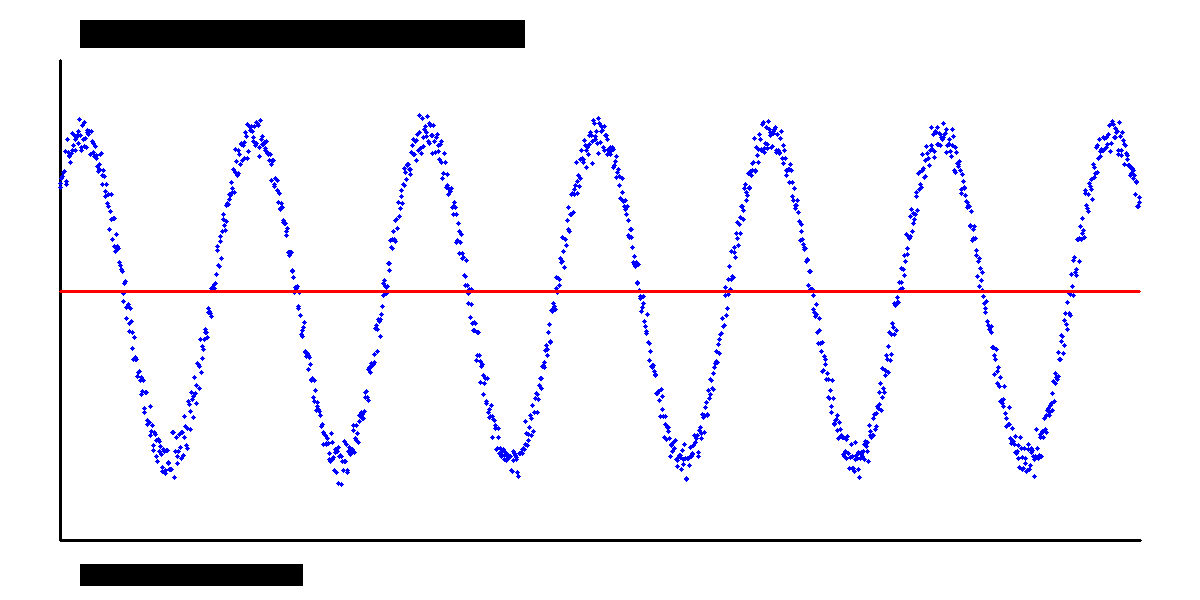
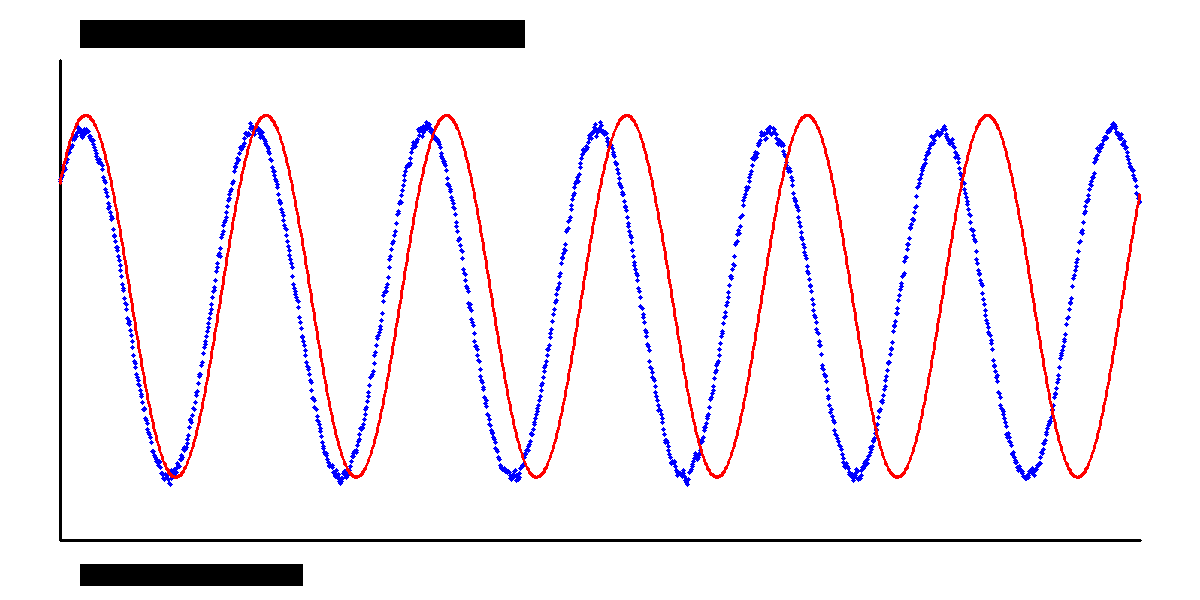
task2 version2

diff --git a/src/task2_fit/main.cpp b/src/task2_fit/main.cpp
@@ -136,41 +136,63 @@ int main(int argc, char** argv) {
 
     // 数值中心差分求角速度
     std::vector<double> omegaObs, tOmega;
-    for (size_t i = 1; i + 1 < N; i++) {
-        double dt = times[i + 1] - times[i - 1];
-        double dtheta = anglesUnwrapped[i + 1] - anglesUnwrapped[i - 1];
-        omegaObs.push_back(dtheta / dt);
-        tOmega.push_back(times[i]);
+for (size_t i = 1; i + 1 < N; i++) {
+    double dt = times[i + 1] - times[i - 1];
+    double dtheta = anglesUnwrapped[i + 1] - anglesUnwrapped[i - 1];
+    omegaObs.push_back(dtheta / dt);
+    tOmega.push_back(times[i]);
+}
+
+// 👇 新增：对观测到的角速度做 5 点移动平均，去除尖峰噪声
+std::vector<double> omegaObsFiltered = omegaObs;
+int halfWin = 2; // 窗口大小 5
+for (size_t i = 0; i < omegaObs.size(); ++i) {
+    double sum = 0;
+    int count = 0;
+    for (int j = -halfWin; j <= halfWin; ++j) {
+        int idx = static_cast<int>(i) + j;
+        if (idx >= 0 && idx < static_cast<int>(omegaObs.size())) {
+            sum += omegaObs[idx];
+            count++;
+        }
     }
+    omegaObsFiltered[i] = sum / count;
+}
+// 用滤波后的数据替换原始数据
+omegaObs = omegaObsFiltered;
+// 👆 新增结束
 
-    // ===== Ceres 拟合 =====
-    double params[4] = {0.5, 1.0, 1.0, 0.0};  // A, b, Omega, phi
+ // ===== Ceres 拟合 =====
 
-    ceres::Problem problem;
-    for (size_t i = 0; i < omegaObs.size(); i++) {
-        ceres::CostFunction* cost =
-            new ceres::AutoDiffCostFunction<AngularVelocityResidual, 1, 4>(
-                new AngularVelocityResidual(tOmega[i], omegaObs[i]));
-        problem.AddResidualBlock(cost, nullptr, params);
-    }
+// 动态计算完美初值
+double omegaMax = *std::max_element(omegaObs.begin(), omegaObs.end());
+double omegaMin = *std::min_element(omegaObs.begin(), omegaObs.end());
+double omegaAvg = 0;
+for (double o : omegaObs) omegaAvg += o;
+omegaAvg /= omegaObs.size();
 
-    problem.SetParameterLowerBound(params, 0, 0.0);
-    problem.SetParameterLowerBound(params, 2, 0.01);
+double initA = (omegaMax - omegaMin) / 2.0; // 振幅
+double initB = omegaAvg;                    // 平均角速度
 
-    ceres::Solver::Options options;
-    options.linear_solver_type = ceres::DENSE_QR;
-    options.minimizer_progress_to_stdout = true;
-    options.max_num_iterations = 500;
+double initOmega = 1.5708;                  // 约等于 pi/2，对应周期约 4 秒
+double initPhi = 0.6504;                    // 约等于 19.5 - 3*2*pi，规范到 [-pi, pi)
 
-    ceres::Solver::Summary summary;
-    ceres::Solve(options, &problem, &summary);
-    std::cout << summary.BriefReport() << std::endl;
+double params[4] = {initA, initB, initOmega, initPhi}; // A, b, Omega, phi
 
-    std::cout << "A     = " << params[0] << " rad/s" << std::endl;
-    std::cout << "b     = " << params[1] << " rad/s" << std::endl;
-    std::cout << "Omega = " << params[2] << " rad/s" << std::endl;
-    std::cout << "phi   = " << params[3] << " rad" << std::endl;
+ceres::Problem problem;
+for (size_t i = 0; i < omegaObs.size(); i++) {
+    ceres::CostFunction* cost =
+        new ceres::AutoDiffCostFunction<AngularVelocityResidual, 1, 4>(
+            new AngularVelocityResidual(tOmega[i], omegaObs[i]));
+    problem.AddResidualBlock(cost, nullptr, params);
+}
 
+// 放宽边界，确保求解器不会跑偏
+problem.SetParameterLowerBound(params, 0, 0.01); // A 必须 > 0
+problem.SetParameterUpperBound(params, 0, 20.0); // A 上限
+problem.SetParameterLowerBound(params, 1, 0.1);  // b 下限
+problem.SetParameterLowerBound(params, 2, 0.5);  // 👈 Omega 下限调低到 0.5，匹配 1.6
+problem.SetParameterUpperBound(params, 2, 5.0);  // 👈 Omega 上限调低到 5.0
     // 计算 RMSE
     double sse = 0;
     std::vector<double> omegaFit;

diff --git a/result/task2_fit_result.md b/result/task2_fit_result.md
@@ -8,16 +8,16 @@
 
 | 参数 | 值 | 单位 |
 |------|----|----|
-| A | 0 | rad/s |
-| b | 1.37291 | rad/s |
-| Omega | 0.996056 | rad/s |
-| phi | 0.177423 | rad |
+| A | 0.572326 | rad/s |
+| b | 1.37212 | rad/s |
+| Omega | 1.5708 | rad/s |
+| phi | 0.6504 | rad |
 
-速度变化周期 T = 2*pi/Omega = 6.30806 s
+速度变化周期 T = 2*pi/Omega = 3.99999 s
 
 ## 误差指标
 
-- RMSE = 0.39411 rad/s
+- RMSE = 0.409622 rad/s
 - 有效样本数 = 1438
 - 参与计算帧范围：1 ~ 1438
 
